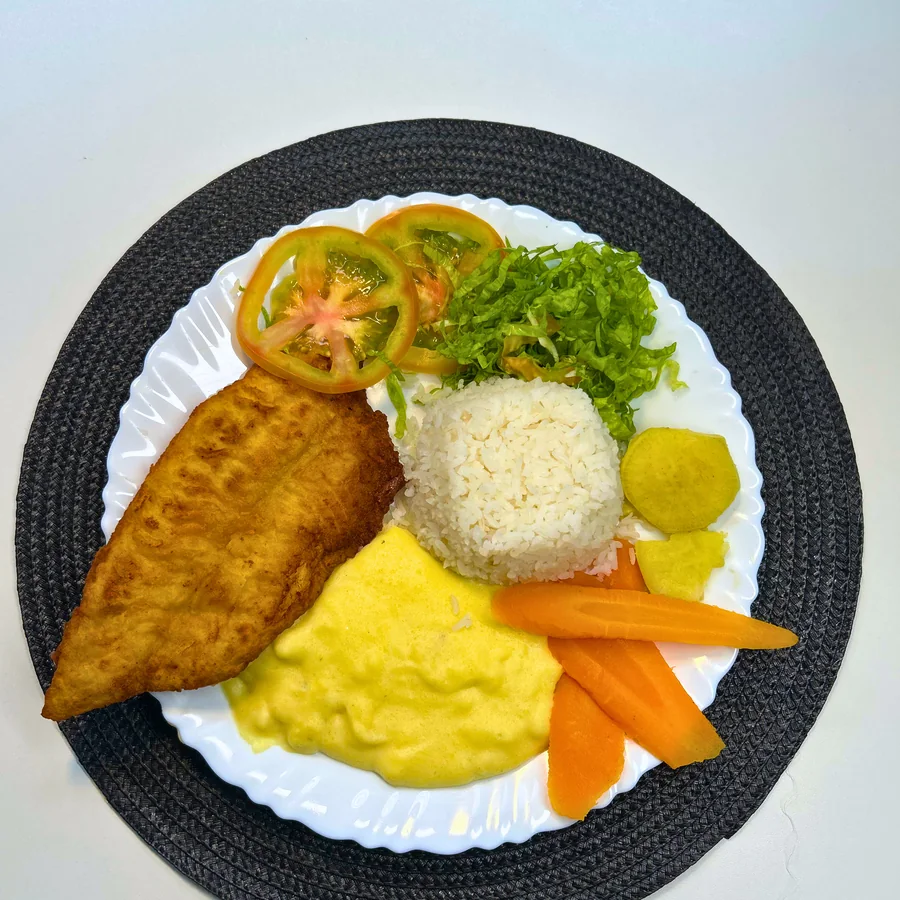
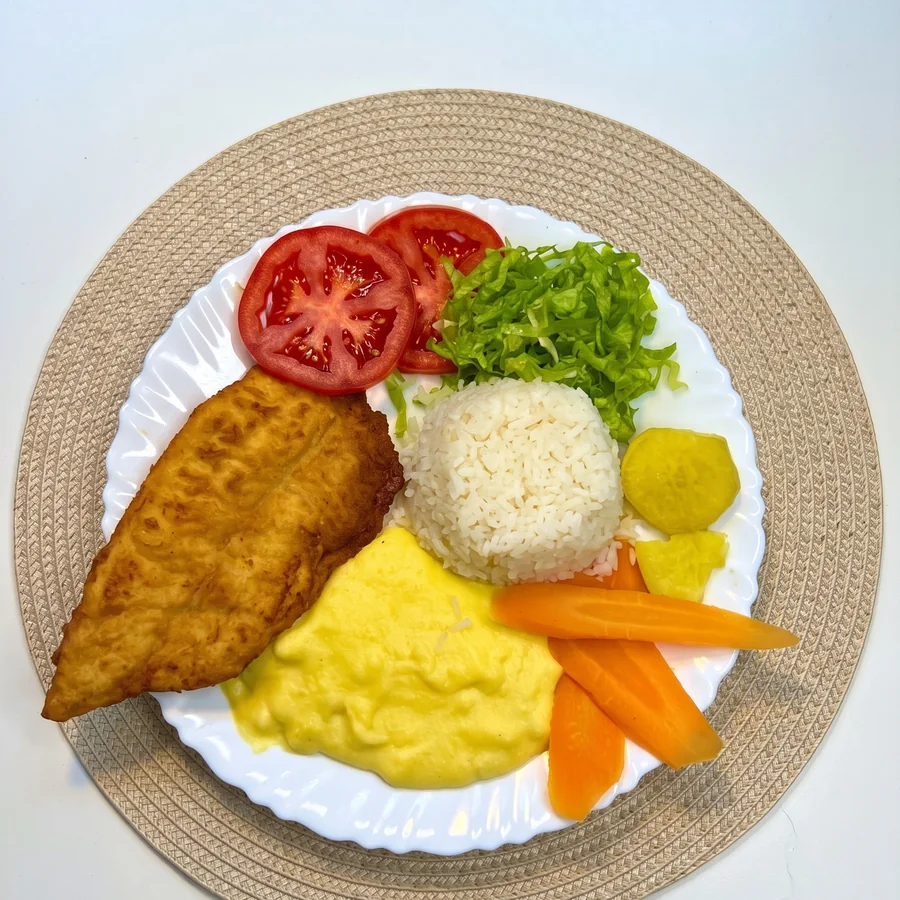
Fotos novas dos pratos (lote IA 2.0)
11 fotos trocadas: picanha, tilapia, bife acebolado, frango completo,
frango simples, coalho, milanesa (agora de frango), figado, bisteca,
dois ovos e marmitex. Mesmo prato, mesma luz e mesma disposicao, com a
esteira variando entre preta, verde, vermelha e bege.

Alt text corrigido em figado (tiras), tilapia (legumes) e marmitex.
As tres parmegianas e as bebidas seguem com as fotos anteriores.

diff --git a/index.html b/index.html
@@ -535,7 +535,7 @@
           </div>
         </article>
         <article class="card reveal" style="--d:1">
-          <div class="card-photo"><img src="img/file-tilapia.webp" alt="Filé de tilápia com arroz, purê e salada" loading="lazy" width="900" height="900"></div>
+          <div class="card-photo"><img src="img/file-tilapia.webp" alt="Filé de tilápia com arroz, purê, legumes e salada" loading="lazy" width="900" height="900"></div>
           <div class="card-body">
             <div class="card-row"><span class="card-name">Filé de Tilápia</span><span class="card-price">R$35</span></div>
             <p class="card-note">(Filé de tilápia, arroz, salada, verdura e fritas ou purê)</p>
@@ -618,7 +618,7 @@
       </div>
       <div class="grid">
         <article class="card reveal" style="--d:0">
-          <div class="card-photo"><img src="img/figado-acebolado.webp" alt="Bife de fígado acebolado com arroz, feijão, fritas e salada" loading="lazy" width="900" height="900"></div>
+          <div class="card-photo"><img src="img/figado-acebolado.webp" alt="Fígado acebolado em tiras com arroz, feijão, macarrão, farofa e salada" loading="lazy" width="900" height="900"></div>
           <div class="card-body">
             <div class="card-row"><span class="card-name">Bife de Fígado Acebolado</span><span class="card-price">R$20</span></div>
             <p class="card-note">(Fígado acebolado, arroz, feijão, macarrão, salada e farofa)</p>
@@ -692,7 +692,7 @@
 
   <section id="marmitex" class="marmitex">
     <div class="marmitex-photo reveal">
-      <img src="img/marmitex.webp" alt="Marmitex pronto para viagem" loading="lazy" width="1200" height="1200">
+      <img src="img/marmitex.webp" alt="Marmitex de bife acebolado com arroz, feijão, macarrão, batata frita, farofa e salada" loading="lazy" width="1200" height="1200">
     </div>
     <div class="marmitex-copy reveal">
       <span class="marmitex-title">Marmitex</span>
